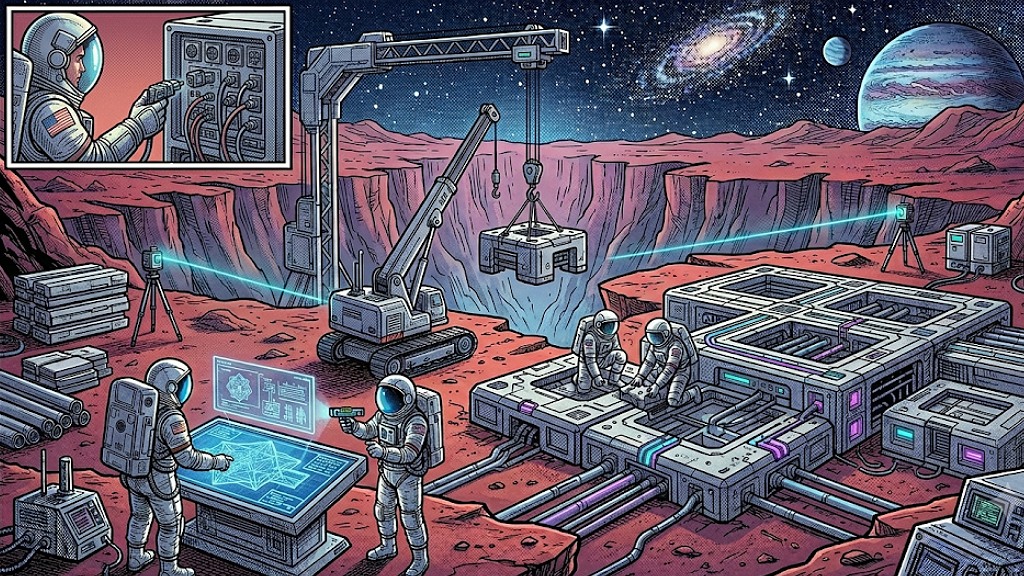
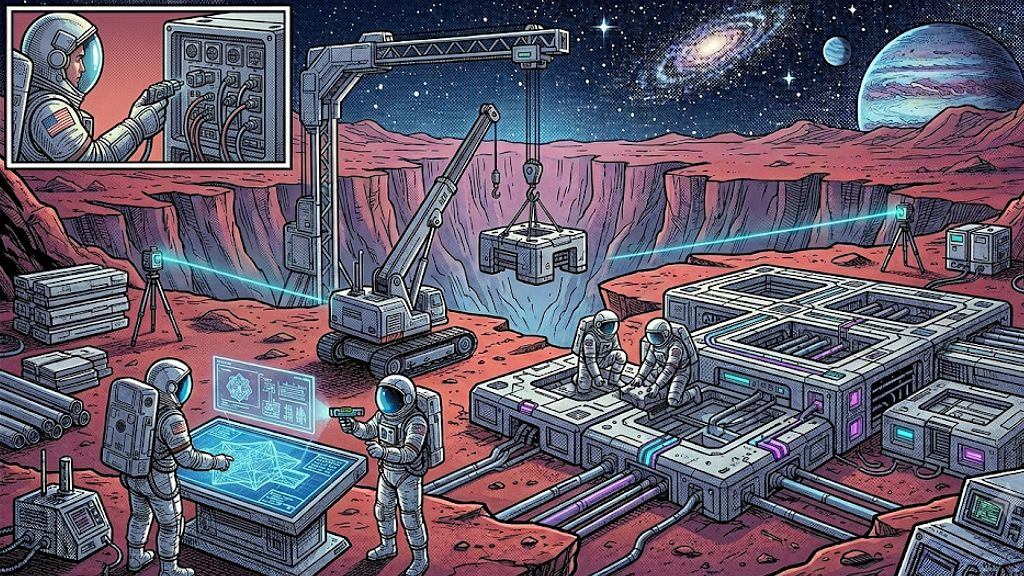
image and map fixes

diff --git a/astro.config.ts b/astro.config.ts
@@ -40,10 +40,9 @@ export default defineConfig({
 
   image: {
     remotePatterns: [{ protocol: 'https' }], // only allows remote images with https, see https://docs.astro.build/en/guides/images/#authorizing-remote-images for more options
-    domains: ['astro-stardrive.com'], // only allows remote images from these domains; any other origin won't get optimized; change as needed; for example, the external images in our zapier integration cards are not optimized on purpose, because pulling them from the optimizer breaks.
-    responsiveStyles: true, // set false for less convenience, but more control; details at https://docs.astro.build/en/guides/images/#responsive-image-behavior
+    responsiveStyles: true, // set false for less convenience, but more control; https://docs.astro.build/en/reference/configuration-reference/#imageresponsivestyles
     layout: 'constrained',
-    // If responsiveStyles is set, Astro generates variants for each width in this list (plus the image's intrinsic width).
+    // Astro generates variants for each width in this list (plus the image's intrinsic width).
     // Defaults are [640, 750, 828, 1080, 1200, 1920]; This is our recommendation based on Tailwind defaults.
     breakpoints: [414, 576, 768, 976, 1440, 1600],
   },